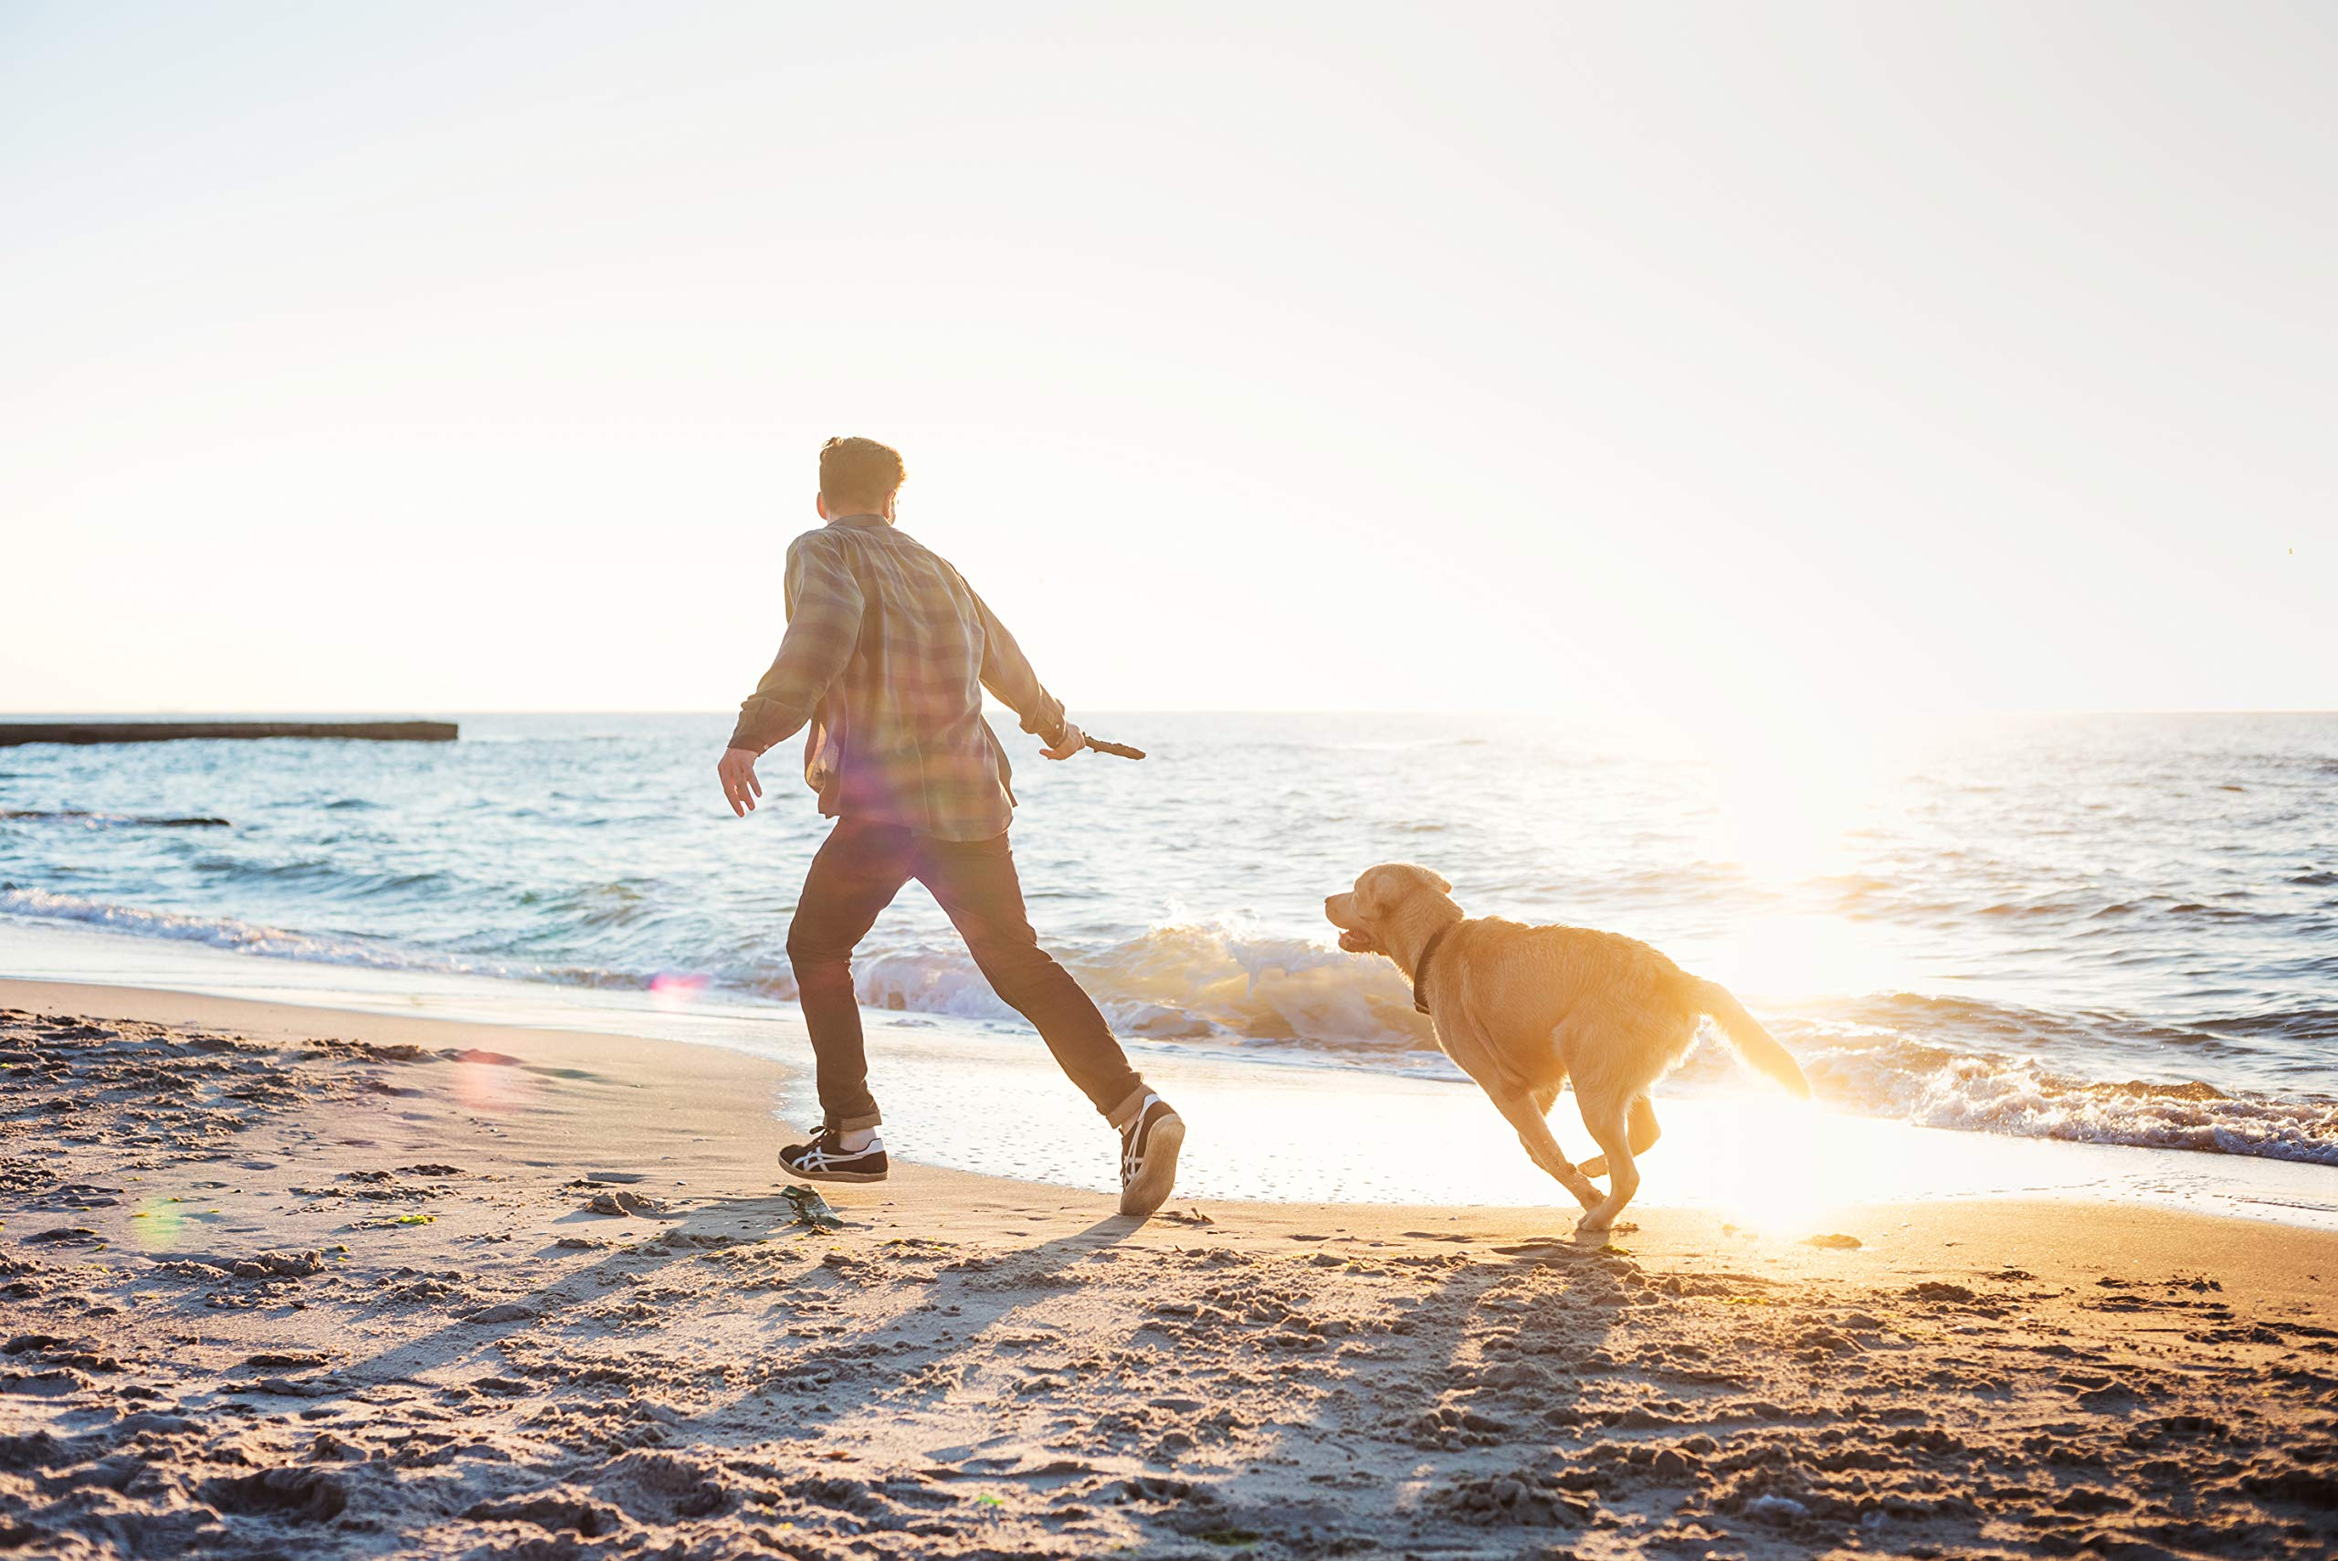
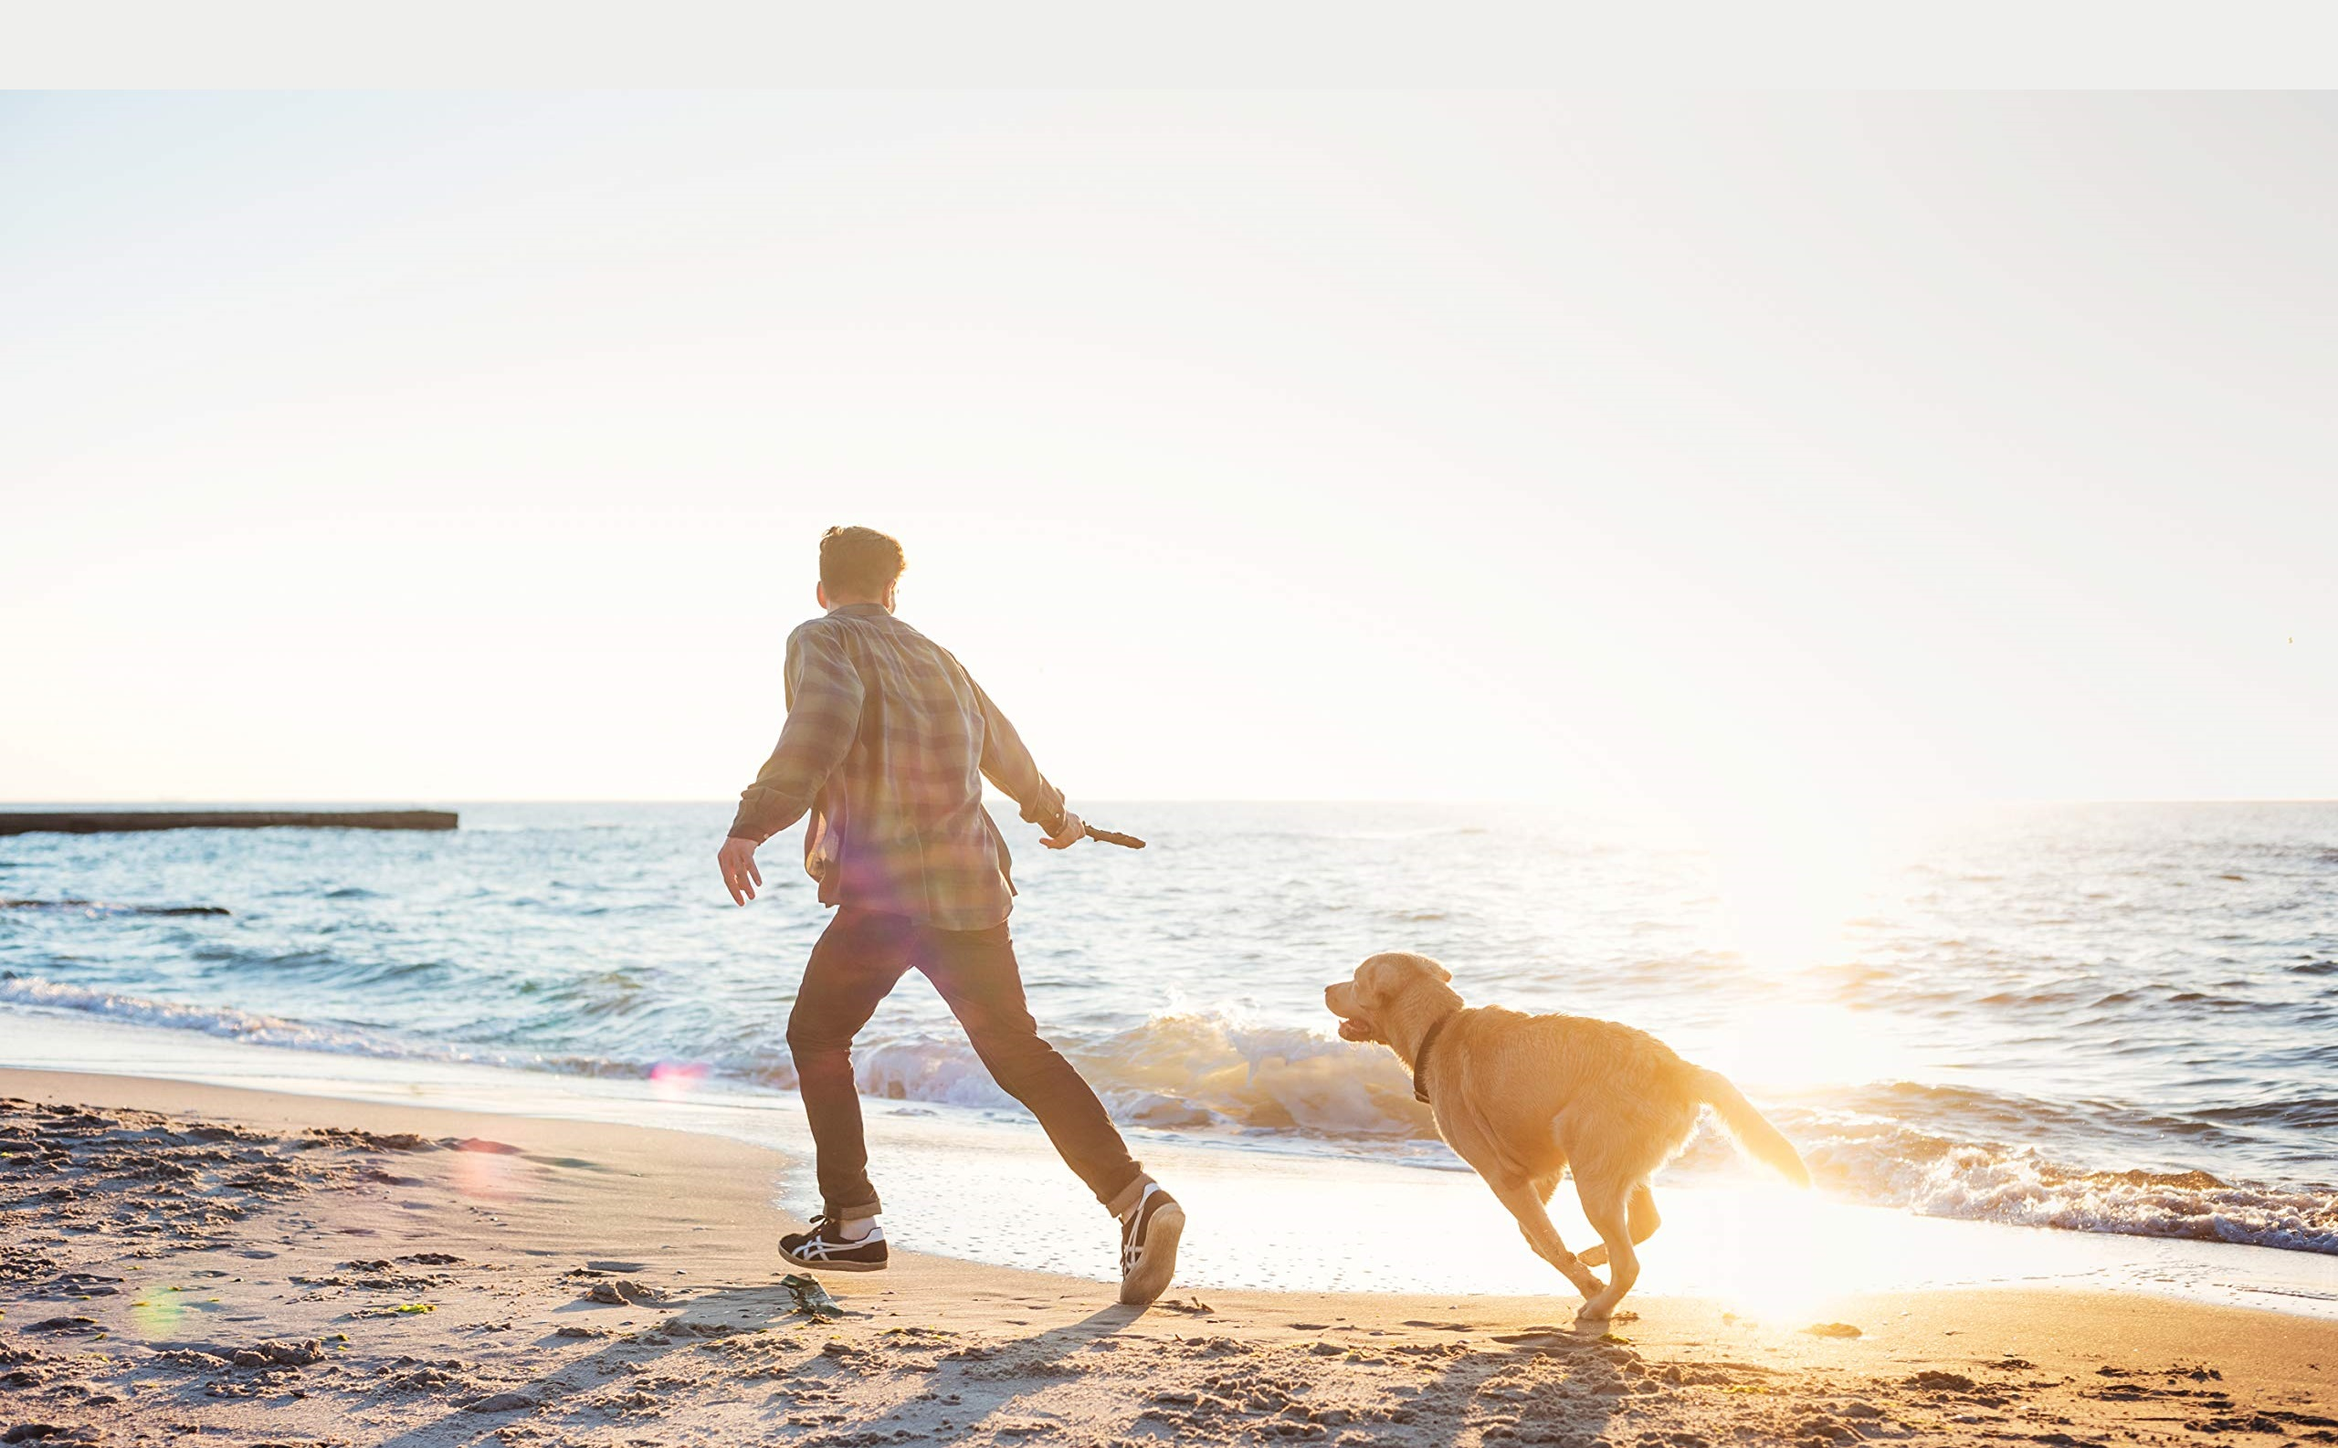
styled header main-info and services

diff --git a/src/main.html b/src/main.html
@@ -1,20 +1,24 @@
 <!DOCTYPE html>
-<html lang="en">
+<html lang="ru">
 <head>
     <meta charset="UTF-8">
     <title>Zoopsy</title>
-
     <link href="css/style.css" rel="stylesheet">
+    <link rel="preconnect" href="https://fonts.gstatic.com">
+    <link href="https://fonts.googleapis.com/css2?family=Alegreya:ital,wght@0,400;0,500;0,700;0,800;0,900;1,400;1,500;1,700;1,800;1,900&family=Lora:ital,wght@0,400;0,500;0,600;0,700;1,400;1,500;1,600;1,700&display=swap" rel="stylesheet">
 </head>
 <body>
 
 <header>
-    <h2><a>Zoopsy</a></h2>
-    <ul class="horizontal-list">
-        <li id="popup-header">Услуги</li>
-        <li>Помощь</li>
-        <li>О нас</li>
-    </ul>
+    <div class="header">
+        <h2><a href="main.html">Zoopsy</a></h2>
+        <ul class="horizontal-list">
+            <li id="popup-header"><a>Услуги</a></li>
+            <li><a>Помощь</a></li>
+            <li><a href="about.html">О нас</a></li>
+            <li><a href="contacts.html">Контакты</a></li>
+        </ul>
+    </div>
 
     <div class="popup-menu">
         <div class="column">
@@ -47,37 +51,37 @@
 
 <main>
     <section id="main-info">
-        <h1>Zoopsy</h1>
-        <h3>Услышьте своего питомца</h3>
-        <a class="call-to-action">Подобрать специалиста</a>
+        <div class="main-info-header">
+            <h1>Zoopsy</h1>
+            <h3>Услышьте своего питомца</h3>
+            <p>психологическая помощь питомцам и их хозяевам</p>
+            <a class="call-to-action">Подобрать специалиста</a>
+        </div>
         <img class="full-width" src="../resources/main.jpg" alt="main">
     </section>
 
     <section id="service-list">
         <h3>Наши услуги</h3>
-        <ul class="horizontal-list">
-            <li>
-                <img src="../resources/cat-training.jpg" alt="cat-training">
-                <h4>Тренировки</h4>
-                <a>Подробнее</a>
-            </li>
-            <li>
-                <img src="../resources/dog-calm.jpg" alt="dog-calm">
-                <h4>Корректировка поведения</h4>
-                <a>Подробнее</a>
-            </li>
-            <li>
-                <img src="../resources/penguins.jpg" alt="penguins">
-                <h4>Адаптация</h4>
-                <a>Подробнее</a>
-            </li>
-        </ul>
+        <div class="services">
+            <div class="service-item">
+                <img src="../resources/services/cat-training.jpg" alt="cat-training">
+                <h4><a>Тренировки</a></h4>
+            </div>
+            <div class="service-item">
+                <img src="../resources/services/dog-calm.jpg" alt="dog-calm">
+                <h4><a>Коррекция поведения</a></h4>
+            </div>
+            <div class="service-item">
+                <img src="../resources/services/penguins.jpg" alt="penguins">
+                <h4><a>Адаптация</a></h4>
+            </div>
+        </div>
     </section>
 
     <section id="special-offer">
         <h3>Специальное предложение</h3>
         <h4>Курс лекций по тренингу собак бесплатно для новых клиентов!</h4>
-        <img src="../resources/dogs-training.jpeg" alt="gogs-training">
+        <p><img src="../resources/dogs-training.jpeg" alt="dogs-training"></p>
         <a class="call-to-action">Отправить заявку</a>
     </section>
 
@@ -90,7 +94,7 @@
                 <h3>Имя и порода питомца</h3>
                 <p>Отзыв</p>
             </li>
-            <!-- TODO: more items and arrows -->
+            <!-- TODO: more items  -->
         </ul>
     </section>
 

diff --git a/src/css/style.css b/src/css/style.css
@@ -1,17 +1,146 @@
 /* base style */
 
-body {
+body, html {
     margin: 0;
+    background-color: #EFEFED;
+    color: #432A25;
+    font-size: 20px;
+    font-family: "Lora", serif;
 }
+
+h1, h2, h3, h4, h5, h6 {
+    font-family: "Alegreya", serif;
+}
+
+/* header style */
 
 header {
     position: fixed;
+    top: 0;
+    left: 0;
+    z-index: 100;
+    background-color: #EFEFED;
+    width: 100%;
+}
+
+.header {
+    padding: 20px 50px;
+    margin: 0;
+}
+
+header h2 {
+    display: inline;
+    margin-right: 50px;
+    font-size: 1.8em;
+}
+
+header li {
+    padding: 0 20px;
+}
+
+#popup-header:after {
+    content: "";
+    margin:0.1em 0.5em;
+    display:inline-block;
+    border: 6px solid transparent;
+    border-top:7px solid #432A25;
+    border-bottom:0 none;
+}
+
+/* main block styles */
+
+section {
+    padding: 10px;
+}
+
+#main-info {
+    padding: 0;
+}
+
+main h3 {
+    margin: 0 0 10px;
+    font-size: 1.3em;
+    text-align: center;
+}
+
+h4 {
+    margin: 0;
+    font-size: 1.2em;
+    padding-left: 5px;
+}
+
+#service-list, #reviews, #feedback-form {
+    background-color: #FEFDF9;
+}
+
+/* main-info style */
+
+.main-info-header {
+    position: absolute;
+    top: 100px;
+    width: 70%;
+    padding-left: 30%;
+    padding-top: 20px;
+    text-align: center;
+}
+h1 {
+    font-size: 4em;
+    margin: 0;
+    text-decoration: underline;
+    text-decoration-color: #66B1CC;
+}
+#main-info h3 {
+    font-size: 1.8em;
+    font-weight: normal;
+    margin: 0;
+}
+#main-info p {
+    font-size: 0.8em;
+    margin: 0 0 50px;
+}
+
+/* service list styles */
+
+.services {
+    display: flex;
+    justify-content: center;
+}
+.service-item {
+    padding: 10px;
+}
+#service-list img {
+    width: 300px;
+}
+
+/* special offer styles */
+
+#special-offer img {
+    width: 500px;
+}
+#special-offer {
+    text-align: center;
+}
+#special-offer a {
+    margin-bottom: 5px;
 }
 
 /* common styles */
 
+.call-to-action {
+    padding: 10px;
+    font-size: 1.2em;
+    background-color: #66B1CC;
+    color: white;
+    border-radius: 5px;
+}
+
 .full-width {
     width: 100%;
+}
+
+.horizontal-list {
+    display: inline;
+    padding: 0;
 }
 
 .horizontal-list li {
@@ -20,4 +149,60 @@ header {
 
 .popup-menu {
     display: none;
+    /*display: flex;*/
+    /*justify-content: space-around;*/
+    /*background-color: #FEFDF9;*/
+}
+
+.column {
+}
+
+.popup-menu h3 {
+    margin-bottom: 0.5em;
+}
+
+.popup-menu ul {
+    margin: 0 0 0.5em;
+    padding: 0;
+}
+
+.popup-menu li {
+    list-style-type: none;
+}
+
+a {
+    color: #432A25;
+    text-decoration-line: none;
+}
+
+/* screen width adaptation */
+
+@media screen and (max-width: 980px) {
+    body, html {
+        font-size: 14px;
+    }
+    .main-info-header {
+        top: 80px;
+    }
+    #main-info p {
+        margin-bottom: 20px;
+    }
+}
+
+@media screen and (max-width: 650px) {
+    body, html {
+        font-size: 8px;
+    }
+    .header {
+        padding: 10px 20px;
+    }
+    .main-info-header {
+        top: 55px;
+    }
+    #main-info p {
+        margin-bottom: 10px;
+    }
+    .call-to-action {
+        padding: 5px;
+    }
 }

diff --git a/src/contacts.html b/src/contacts.html
@@ -1,0 +1,10 @@
+<!DOCTYPE html>
+<html lang="en">
+<head>
+    <meta charset="UTF-8">
+    <title>Контакты</title>
+</head>
+<body>
+
+</body>
+</html>

diff --git a/src/about.html b/src/about.html
@@ -1,0 +1,10 @@
+<!DOCTYPE html>
+<html lang="ru">
+<head>
+    <meta charset="UTF-8">
+    <title>О нас</title>
+</head>
+<body>
+
+</body>
+</html>
